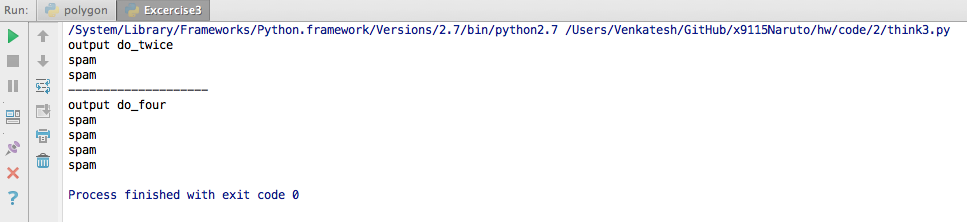
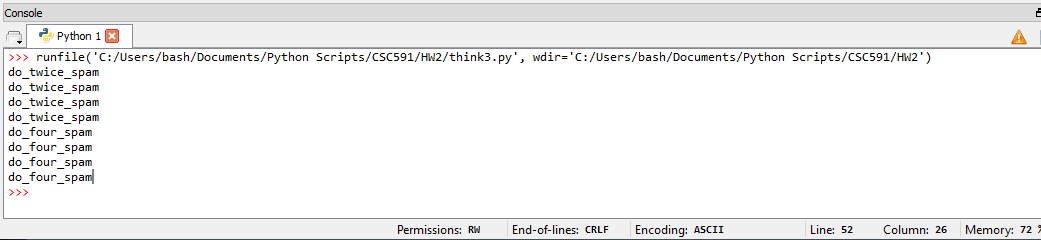
adding exercise 4 and hw2 changes

Changed region(s): [[0.0, 0.0, 1.0, 1.0]]

diff --git a/hw/code/2/think4.py b/hw/code/2/think4.py
@@ -1,0 +1,54 @@
+import math
+from swampy.TurtleWorld import *
+
+def drawArc(t, radius, angle):
+    length = 2 * math.pi * radius * abs(angle) / 360
+    n = int(length / 4) + 1
+    step_length = length / n
+    step_angle = float(angle) / n
+    lt(t, step_angle/2)
+    for i in range(n):
+        fd(t, step_length)
+        lt(t, step_angle)
+    rt(t, step_angle/2)
+    
+def drawPetal(t, radius, angle):
+    for i in range(2):
+        drawArc(t, radius, angle)
+        lt(t, 180-angle)
+
+def drawFlower(t, petals, radius, angle):
+    for i in range(petals):
+        drawPetal(t, radius, angle)
+        lt(t, 360.0/petals)
+
+def drawTriangle(t, length, angle):
+    diagLen = length * math.sin(angle * math.pi / 180)
+    rt(t, angle)
+    fd(t, length)
+    lt(t, 90+angle)
+    fd(t, 2*diagLen)
+    lt(t, 90+angle)
+    fd(t, length)
+    lt(t, 180-angle) 
+
+def drawPie(t, sides, length):
+    angle = 360.0 / sides
+    for i in range(sides):
+        drawTriangle(t, length, angle/2)
+        lt(t, angle)
+
+world = TurtleWorld()
+bob = Turtle()
+bob.delay = 0.01
+
+#drawFlower(bob, 7, 60.0, 60.0)
+#drawFlower(bob, 10, 40.0, 80.0)
+#drawFlower(bob, 20, 140.0, 20.0)
+
+#drawPie(bob, 5, 100)
+#drawPie(bob, 6, 100)
+#drawPie(bob, 7, 100)
+
+die(bob)
+wait_for_user()

diff --git a/hw/code/2/think3.py b/hw/code/2/think3.py
@@ -12,16 +12,19 @@ def right_justify(s):
     rwidth = 70
     print s.rjust(rwidth)
 
-def do_twice(f,val):
-    f(val)
-    f(val)
+def print_once(s):
+    print s
 
-def do_four(f,val):
-    do_twice(f,val)
-    do_twice(f,val)
-
-def print_spam(val):
-    print val
+def print_twice(s):
+    print s+"\n"+s
+    
+def do_twice(f,s):
+    f(s)
+    f(s)
+    
+def do_four(f,s):
+    f(print_once,s)
+    f(print_once,s)
 
 def grid(rows,cols):
     for i in range(0,rows):
@@ -45,4 +48,7 @@ def grid(rows,cols):
         print "+",
     print
 
-grid(4,4)
+#print right_justify('bash')
+#do_twice(print_twice, 'do_twice_spam')
+#do_four(do_twice,'do_four_spam')
+#grid(4,4)

diff --git a/hw/code/2/readme.md b/hw/code/2/readme.md
@@ -1,17 +1,19 @@
-# CODE 2
+## CODE 2
 
-CSC 591 - Automated Software Engineering
+### Exercise 3
+
+Code for exercise 3 is in [think3.py](./think3.py)
 
 1. Move the last line of this program to the top, so the function call appears before the definitions. Run the program and see what error message you get.
-<br/>
+<br/><br/>
 ![Exercise 3.1](./imgs/Ex3_1.png)
 
 2. Move the function call back to the bottom and move the definition of print_lyrics after the definition of repeat_lyrics. What happens when you run this program?
-<br/>
+<br/><br/>
 ![Exercise 3.2](./imgs/Ex3_2.png)
 
 3. Write a function named right_justify that takes a string named s as a parameter and prints the string with enough leading spaces so that the last letter of the string is in column 70 of the display.
-<br/>
+<br/><br/>
 ![Exercise 3.3](./imgs/Ex3_3.png)
 
 4.
@@ -20,15 +22,31 @@ CSC 591 - Automated Software Engineering
 <br/>
 
 * Define a new function called do_four that takes a function object and a value and calls the function four times, passing the value as a parameter. There should be only two statements in the body of this function, not four.
-<br/>
+<br/><br/>
 ![Exercise 3.4_2](./imgs/Ex3_4.png)
 
 5.
 
 * Write a function that draws a grid like the following
-<br/>
+<br/><br/>
 ![Ex 3.5](./imgs/Ex3_5.png)
 
 * Write a function that draws a similar grid with four rows and four columns.
-<br/>
+<br/><br/>
 ![Ex 3.5_2](./imgs/Ex3_5_2.png)
+
+### Exercise 4
+
+Code for exercise 3 is in [think4.py](./think4.py)
+
+2. Images of turtle flowers:
+
+![Exercise 4.2.1](./imgs/421.png) <br/>
+![Exercise 4.2.2](./imgs/422.png) <br/>
+![Exercise 4.2.2](./imgs/423.png) <br/>
+
+3. Images of turtle pies:
+
+![Exercise 4.3.1](./imgs/431.png) <br/>
+![Exercise 4.3.2](./imgs/432.png) <br/>
+![Exercise 4.3.2](./imgs/433.png) <br/>
